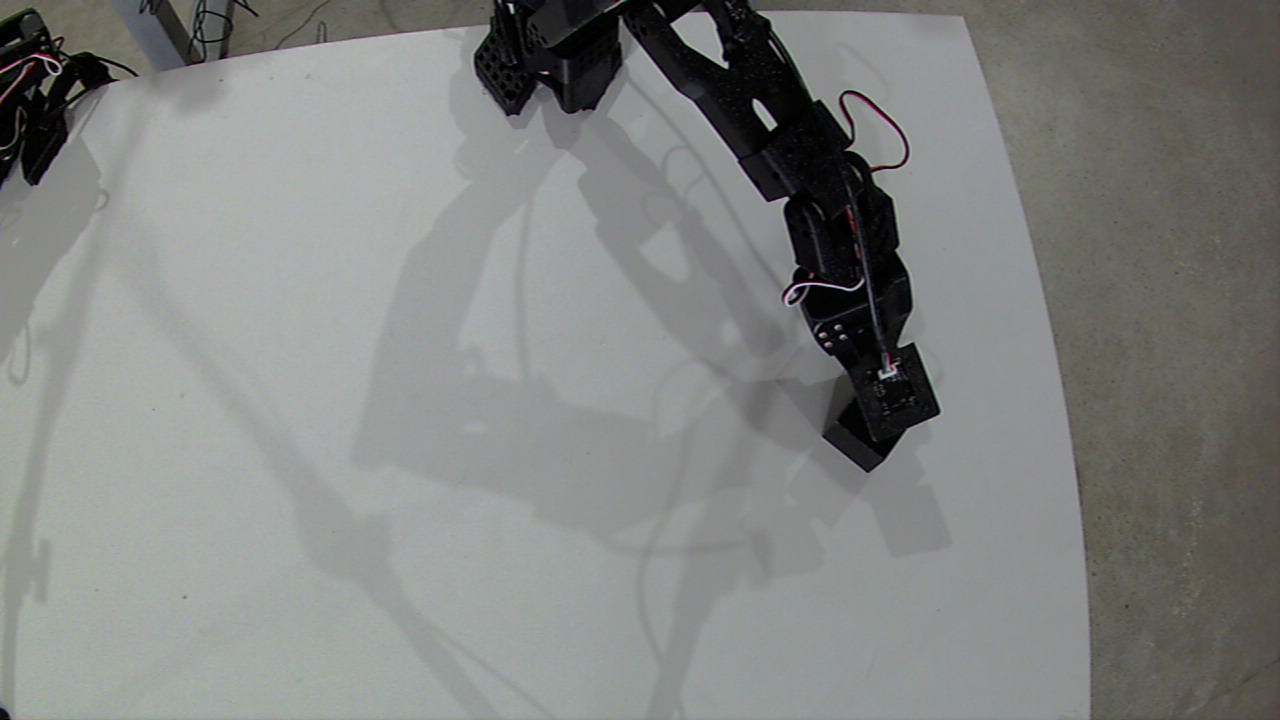
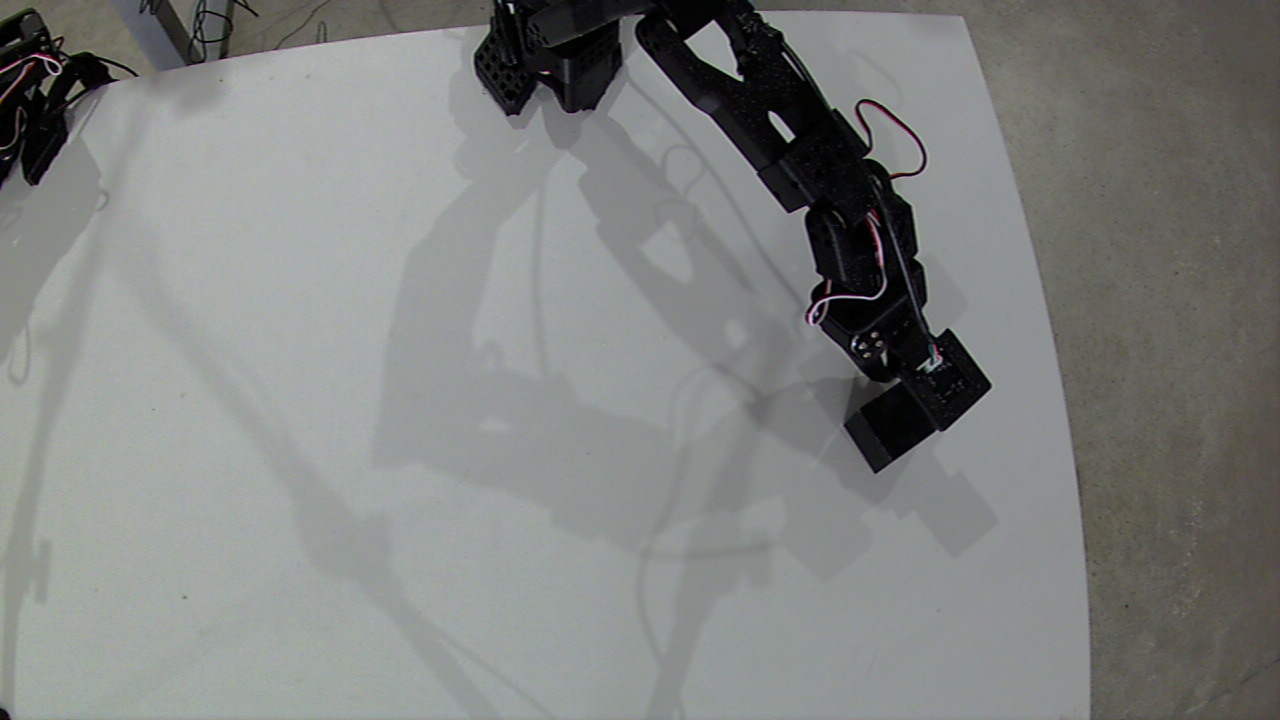
Update tools for arm-007__gpt-6-astra__grasp-cube
{"agent_id": "arm-007__gpt-6-astra__grasp-cube", "designation": "arm-007", "identity_version": 2, "model": "gpt-6-astra", "provider": "codex", "task_definition": {"description": "Start episode, pickup the black cube, bring black cube to home position, confirm successful grasp, stop episode, return object to new position, return home, repeat", "id": "grasp-cube", "success_criteria": ["successful episode coverage across the entire workspace", "achieve at least 50 successful episodes an hour"], "version": 2}, "task_id": "grasp-cube", "task_sha256": "e6c8adbb1562fdc6af3405e2e618046b110e27856c520c9f5cd329c258fb3818", "task_version": 2, "tools_sha256": "932762a71443e8ae07ce5c553180633f12d1f86aa5057d5431f569bc455fce0d"}

Changed region(s): [[0.5625, 0.0917, 0.7812, 0.6722], [0.4375, 0.0, 0.625, 0.1833], [0.5, 0.0917, 0.5312, 0.1222]]

diff --git a/agents/arm-007__gpt-6-astra__grasp-cube/cube_vertical.py b/agents/arm-007__gpt-6-astra__grasp-cube/cube_vertical.py
@@ -1,17 +1,18 @@
 """Plan a short vertical tool path at fixed pan and pitch using the supplied FK."""
 import numpy as np
+import os
 from scipy.optimize import least_squares
 from fk import forward
 import cube_cycles as x
 
 def vertical_path(q,height=.08,n=5):
  pitch=sum(q[k] for k in ('shoulder_lift','elbow_flex','wrist_flex'))
- point=forward({**q,'wrist_roll':-30})
+ point=forward({**q,'wrist_roll':float(os.environ.get('CUBE_ROLL','-30'))})
  guess=[q['shoulder_lift']-10,q['elbow_flex']-20]
  poses=[]
  for z in np.linspace(point['z']+height,point['z'],n):
   def residual(v):
-   p=forward({**q,'shoulder_lift':v[0],'elbow_flex':v[1],'wrist_flex':pitch-v[0]-v[1],'wrist_roll':-30})
+   p=forward({**q,'shoulder_lift':v[0],'elbow_flex':v[1],'wrist_flex':pitch-v[0]-v[1],'wrist_roll':float(os.environ.get('CUBE_ROLL','-30'))})
    return [p['x']-point['x'],p['y']-point['y'],p['z']-z]
   result=least_squares(residual,guess,bounds=([-80,-100],[90,100]))
   if np.linalg.norm(result.fun)>.001:raise RuntimeError('Vertical pose not solved')

diff --git a/agents/arm-007__gpt-6-astra__grasp-cube/cube_cycles.py b/agents/arm-007__gpt-6-astra__grasp-cube/cube_cycles.py
@@ -31,7 +31,7 @@ def pose(pan,elbow=20):
  pitch=float(os.environ.get("CUBE_PITCH","65"))
  from scipy.optimize import brentq
  from fk import forward
- def height(s):return forward(dict(shoulder_pan=2,shoulder_lift=s,elbow_flex=elbow,wrist_flex=pitch-s-elbow,wrist_roll=-30))['z']+.002193685765342651
+ def height(s):return forward(dict(shoulder_pan=2,shoulder_lift=s,elbow_flex=elbow,wrist_flex=pitch-s-elbow,wrist_roll=float(os.environ.get("CUBE_ROLL","-30"))))['z']+.002193685765342651
  s=brentq(height,-80,80)
  return dict(shoulder_pan=pan,shoulder_lift=s,elbow_flex=elbow,wrist_flex=pitch-s-elbow)
 def above(q):return {**q,'shoulder_lift':q['shoulder_lift']-30,'wrist_flex':q['wrist_flex']+30}
